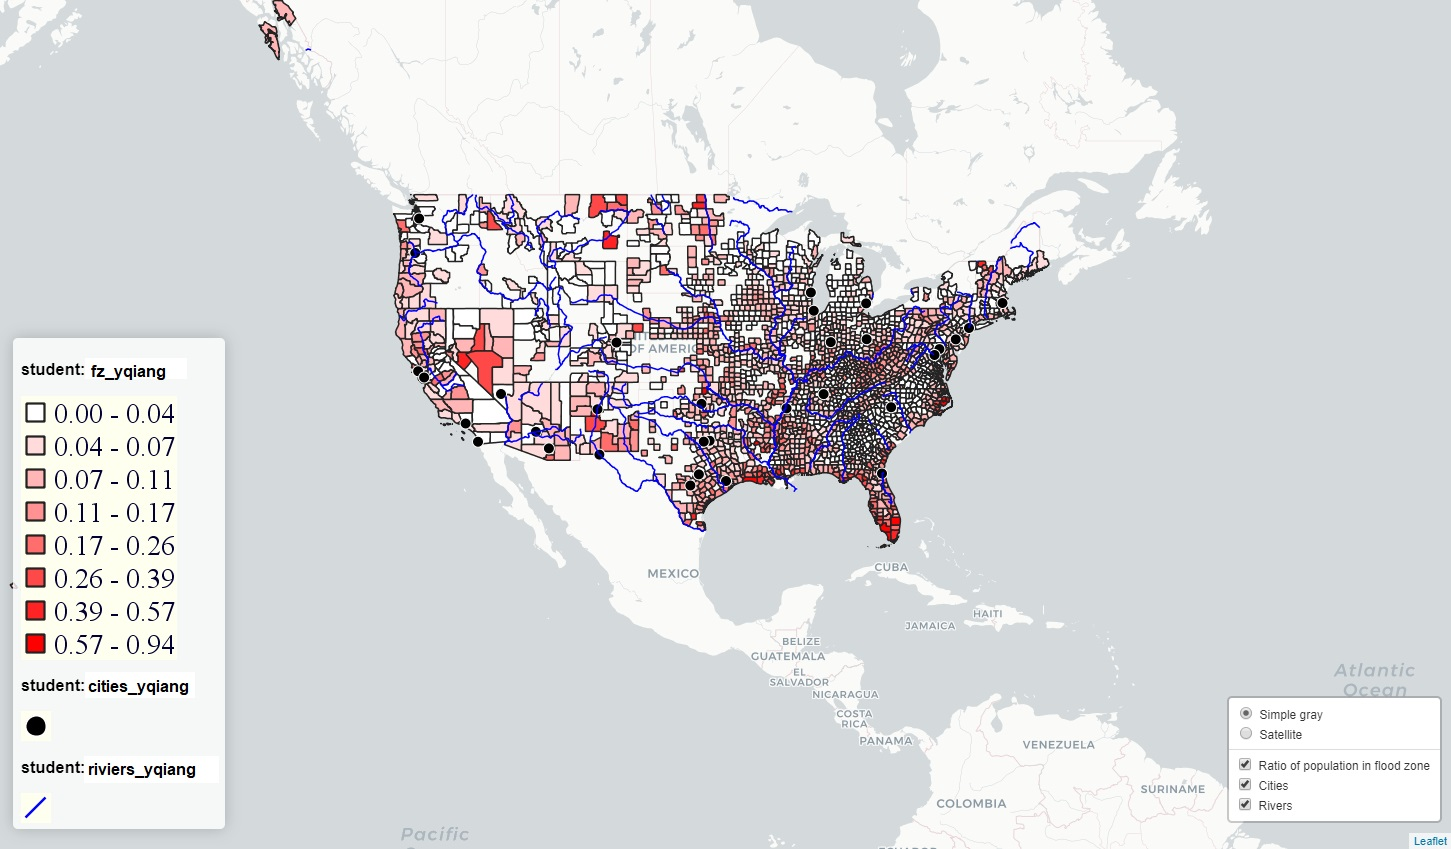
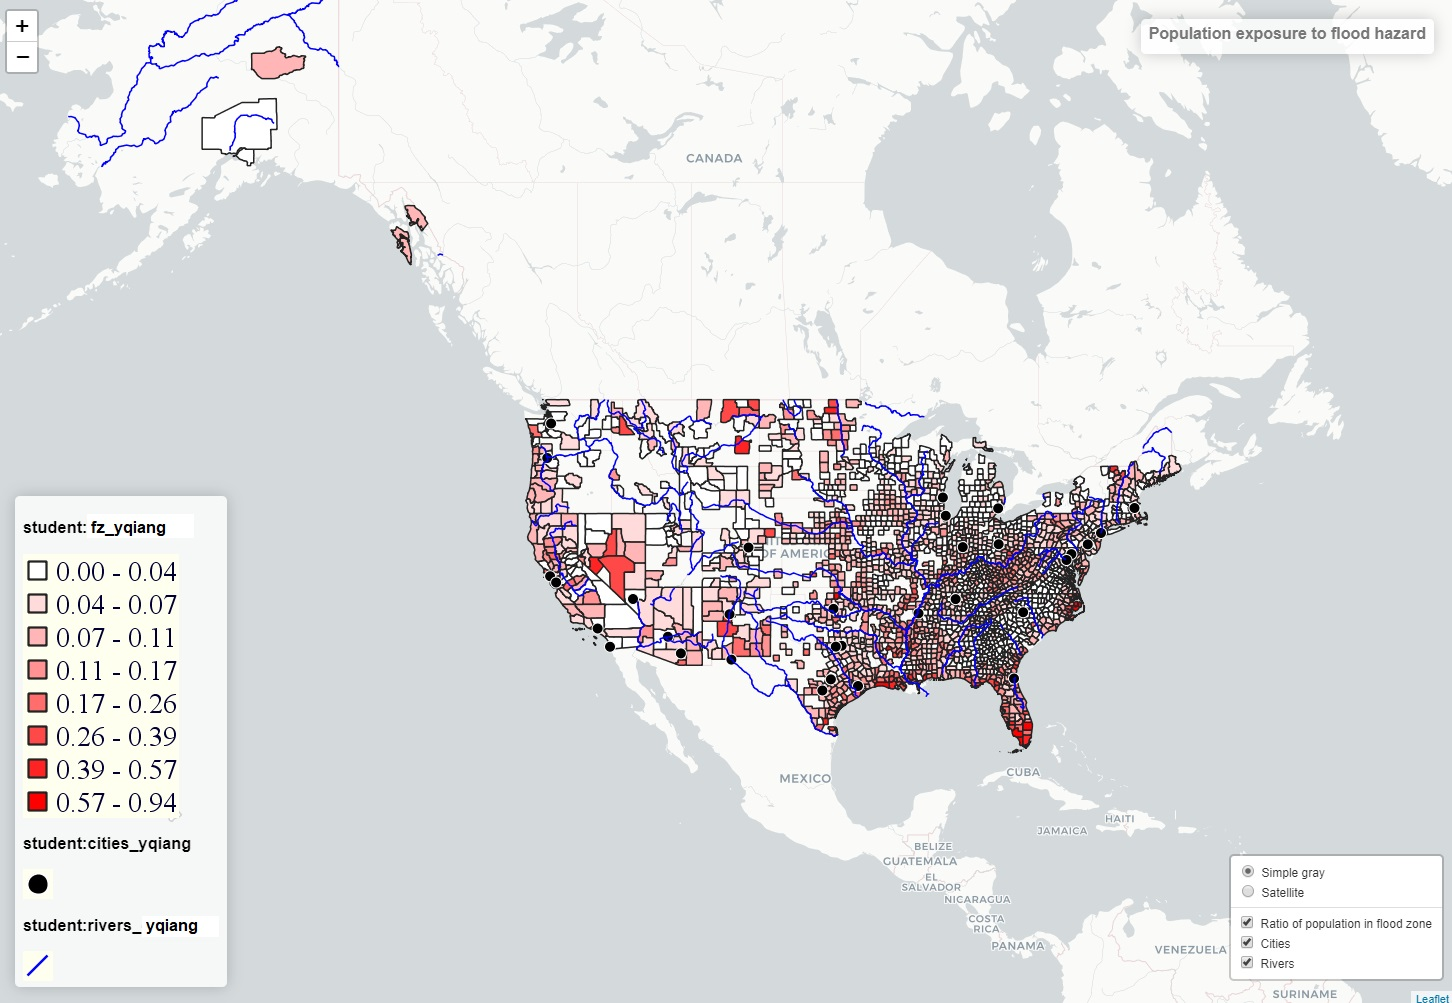
11/15 after class

diff --git a/lecture/lec11_web_map_service.md b/lecture/lec11_web_map_service.md
@@ -278,13 +278,15 @@ Unlike the previous maps you created, which use GeoJson data stored in the local
 Download the data from [here](https://drive.google.com/file/d/1_HlKQWpGjhrZW2NlYlioOSks8B1gaP4f/view?usp=sharing) and extract the shapefile (floodzone.shp) into a folder in your computer. The shapefile contains counties where flood maps are available.
 Follow the same procedure in this lesson, do the following:
 1. Upload and publish three shapefiles (floodzone.shp, cities.shp, and rivers.shp) as a WMS layer in GeoServer, name the layer as fz_YOURNAME, cities_YOURNAME, and rivers_YOURNAME.
-2. Using QGIS to create a style (SDL file) to assign graduated colors to the polygons according to the attribute **r_pop_fz**, which is ratio of population in 100-year-flood zone. Name the style (fz_style_YOURNAME)
-3. Upload the style file into GeoServer and apply the style to the published flood zone layer (fz_YOURNAME).
-4. Create a simple web map with the following layers:
+2. Using QGIS to create a style (SDL file) to assign graduated colors to the polygons according to the attribute **r_pop_fz**, which is ratio of population in 100-year-flood zone. Name the style (fz_style_YOURNAME).
+3. You may need to create styles for the river and city layers if their color conflicts with the colors of the flood zone layer. You can repeat the previous step to create these styles.
+4. Upload the style files into GeoServer and apply the styles to the published layers respectively.
+5. Create a simple web map with the following layers:
   1. a city layer showing cities as points
   2. a river layer showing the major rivers in US as polylines
   3. a choropleth map "the ratio of population in flood zone per county"
   4. a basemap.
+
 
 ### Step 1: Add WMS layers to layer control
 Delete all javascript codes between the `<script>` tags in index.html. Modify and add the following code to create a web map to show the multiple layers.
@@ -340,6 +342,10 @@ var layers = {
 L.control.layers(baseMaps, layers,  {collapsed: false, position:'bottomright'}).addTo(map);
 
 ```
+At thsi step, your map should look like below. **Note**: you don't need to replicate the map. You can be creative in choosing your styles.
+
+<img src="images/fig11-8.jpg" width =1000><br>
+
 
 
 ### Step 2: Add interactive legend for the WMS layers
@@ -392,7 +398,11 @@ function updateLegend(){
 });
 
 ```
-Test your web map in the local http server.
+Test your web map in the local http server. Your legend should show up when you turn on the corresponding layers.
+
+<img src="images/fig11-7.jpg" width =1000><br>
+
+The layer names shown in legend is a bit awkward (e.g. student:fz_yqiang), which is OK for the assignment. This is because we share the same account so we need to use special naming to differentiate our files. You can create more understandable layer names when you work on your own server.
 
 Finally, upload the web map (index.html) into your UH web server.
 
